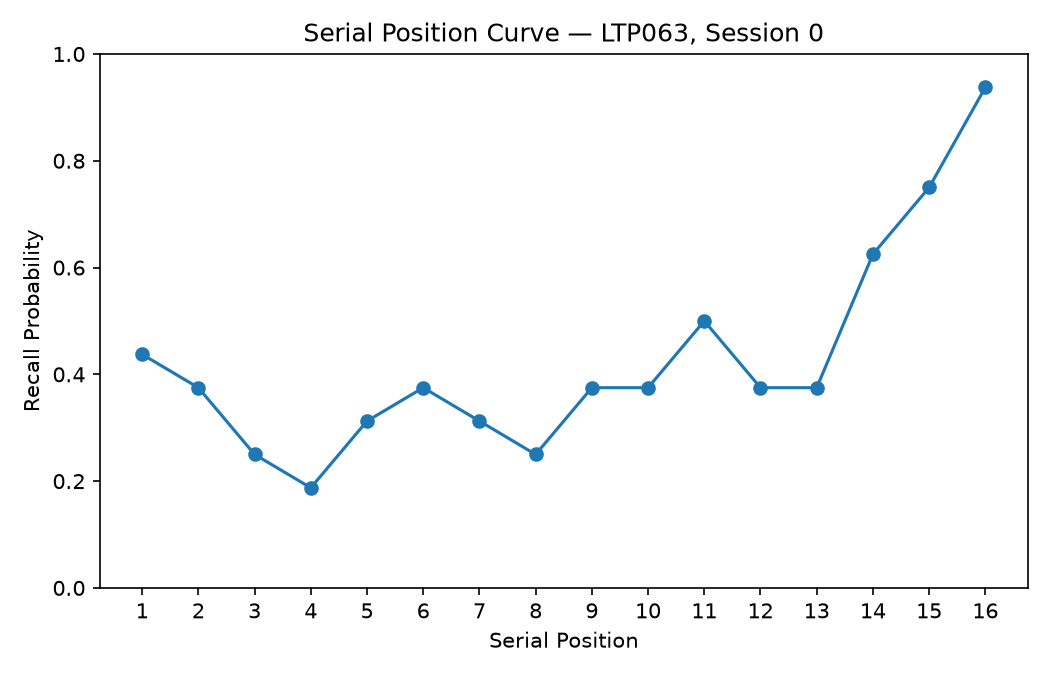
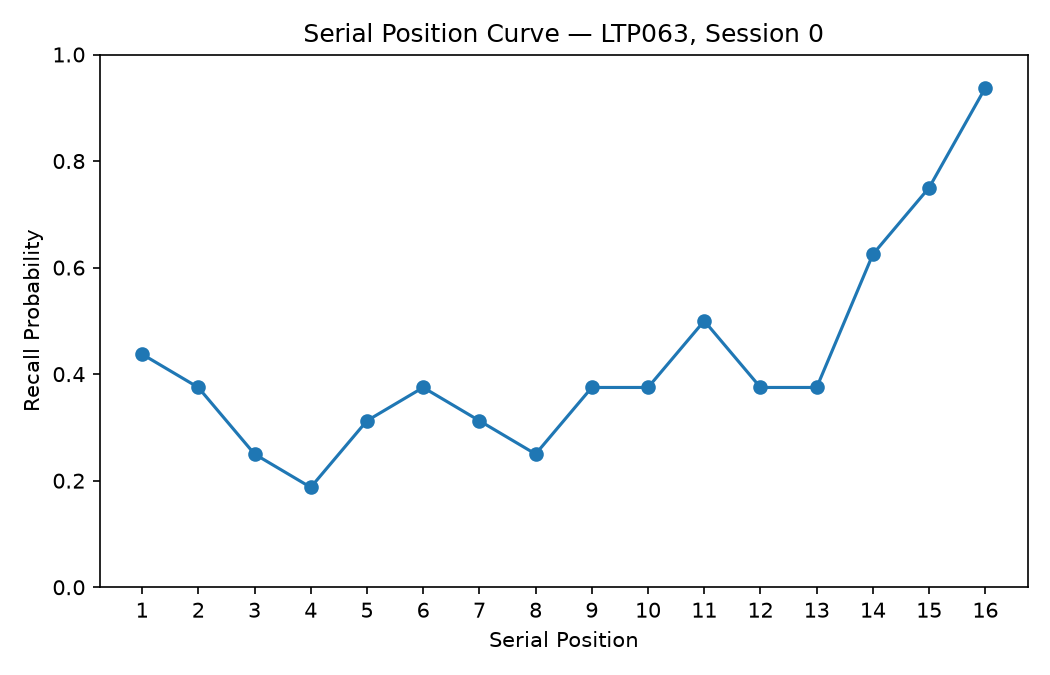
Support analysis across PEERS sessions

diff --git a/scripts/plot_serial_position.py b/scripts/plot_serial_position.py
@@ -1,10 +1,22 @@
 """Plot the serial-position curve for one PEERS ltpFR session."""
 
 import csv
+import os
+import re
+import sys
+
 import matplotlib.pyplot as plt
 
-PATH = "data/raw/sub-LTP063_ses-0_task-ltpFR_beh.tsv"
-OUT = "results/figures/serial_position_LTP063_ses0.png"
+if len(sys.argv) != 2:
+    sys.exit("usage: python3 scripts/plot_serial_position.py <behavioral.tsv>")
+
+PATH = sys.argv[1]
+
+match = re.search(r"sub-([^_]+)_ses-([^_]+)", os.path.basename(PATH))
+if not match:
+    sys.exit(f"cannot read subject/session from filename: {os.path.basename(PATH)}")
+SUBJECT, SESSION = match.group(1), match.group(2)
+OUT = f"results/figures/serial_position_{SUBJECT}_ses{SESSION}.png"
 LIST_LENGTH = 16
 
 with open(PATH) as f:
@@ -44,8 +56,9 @@ ax.set_xlabel("Serial Position")
 ax.set_ylabel("Recall Probability")
 ax.set_ylim(0, 1)
 ax.set_xticks(positions)
-ax.set_title("Serial Position Curve — LTP063, Session 0")
+ax.set_title(f"Serial Position Curve — {SUBJECT}, Session {SESSION}")
 fig.tight_layout()
+os.makedirs(os.path.dirname(OUT), exist_ok=True)
 fig.savefig(OUT, dpi=150)
 print(f"\nSaved {OUT}")
 plt.show()

diff --git a/scripts/summarize_trials.py b/scripts/summarize_trials.py
@@ -1,8 +1,12 @@
 """Audit a PEERS ltpFR behavioral file: WORD and REC_WORD counts per trial."""
 
 import csv
+import sys
 
-PATH = "data/raw/sub-LTP063_ses-0_task-ltpFR_beh.tsv"
+if len(sys.argv) != 2:
+    sys.exit("usage: python3 scripts/summarize_trials.py <behavioral.tsv>")
+
+PATH = sys.argv[1]
 
 with open(PATH) as f:
     rows = list(csv.DictReader(f, delimiter="\t"))

diff --git a/scripts/serial_position.py b/scripts/serial_position.py
@@ -1,8 +1,12 @@
 """Serial-position recall probabilities for one PEERS ltpFR session."""
 
 import csv
+import sys
 
-PATH = "data/raw/sub-LTP063_ses-0_task-ltpFR_beh.tsv"
+if len(sys.argv) != 2:
+    sys.exit("usage: python3 scripts/serial_position.py <behavioral.tsv>")
+
+PATH = sys.argv[1]
 LIST_LENGTH = 16
 
 with open(PATH) as f:

diff --git a/README.md b/README.md
@@ -12,22 +12,6 @@ We begin with human free-recall data from the Penn Electrophysiology of Encoding
 
 We use the **PEERS** dataset, available publicly through OpenNeuro as **ds004395**.
 
-[Open PEERS on OpenNeuro](https://openneuro.org/datasets/ds004395)
+https://openneuro.org/datasets/ds004395
 
-A browsable mirror is also available on NEMAR. The dataset includes behavioral (`BEH`) and EEG data; MindTrace currently uses only the behavioral files. :contentReference[oaicite:0]{index=0}
-
-## Current Progress
-
-- inspect individual recall trials
-- summarize sessions
-- identify correct recalls, repeats, and intrusions
-- calculate serial-position recall probabilities
-
-Current analysis is limited to one participant and one session.
-
-## Next Steps
-
-- plot the serial-position curve
-- analyze more human data
-- run comparable recall experiments with language models
-- compare human and AI memory patterns
+MindTrace currently uses the behavioral data only.
